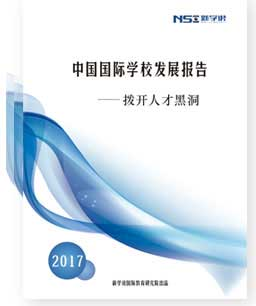
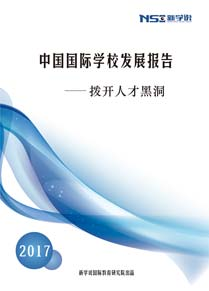
研究院页更换图片

diff --git a/src/components/research/researchIndex.vue b/src/components/research/researchIndex.vue
@@ -69,24 +69,29 @@
             <div class="row pt30">
                 <div class="col-md-3 col-xs-6 text-center reportlist">
                     <a href="javascript:;">
-                        <img src="../../assets/img/research/report02.jpg" alt="" width="220">
-                    </a>
-                </div>
-                <div class="col-md-3 col-xs-6 text-center reportlist reportItem">
-                    <a href="javascript:;">
-                        <img src="../../assets/img/research/report01.jpg" alt="" width="200">
+                        <img src="../../assets/img/research/report04.jpg" alt="" class="reportImg">
                     </a>
                 </div>
                 <div class="col-md-3 col-xs-6 text-center reportlist">
                     <a href="javascript:;">
-                        <img src="../../assets/img/research/report03.jpg" alt="" width="185">
+                        <img src="../../assets/img/research/report02.jpg" alt="" class="reportImg">
                     </a>
                 </div>
-                <div class="col-md-3 col-xs-6 reportlist">
+                <div class="col-md-3 col-xs-6 text-center reportlist reportItem">
+                    <a href="javascript:;">
+                        <img src="../../assets/img/research/report01.jpg" alt="" class="reportImg">
+                    </a>
+                </div>
+                <div class="col-md-3 col-xs-6 text-center reportlist">
+                    <a href="javascript:;">
+                        <img src="../../assets/img/research/report03.jpg" alt="" class="reportImg">
+                    </a>
+                </div>
+                <!-- <div class="col-md-3 col-xs-6 reportlist">
                     <h5 class="text-center class-title">关于研究院</h5>
                     <p class="class-info">新学说研究院是包括行业专家共同研究编撰国际学校内参，国际学校发展报告，行业研究报告，国际学校职能课程，国际学校研修班等</p>
                     <p class="text-center class-apply"><router-link tag="a" :to="{path:'/research/periodical'}">资源下载</router-link></p>
-                </div>
+                </div> -->
             </div>
             <!-- 研究成果 END-->
             <!-- 培训课程 -->
@@ -122,7 +127,7 @@
                 </div>
                 <div class="col-md-3 col-xs-6 reportlist">
                     <a href="http://class.xinxueshuo.cn/nsi-class/pages/mac.html" target="_blank">
-                        <img src="../../assets/img/research/subItem03.jpg" alt="">
+                        <img src="../../assets/img/research/subItem06.jpg" alt="">
                     </a>
                     <p class="subItem-title">公共关系</p>
                     <p class="subItem-desc">通过有效沟通策略实现招生转化；构建健康牢固的家校关系 </p>
@@ -233,6 +238,9 @@ export default {
                }
            }
        }
+       .reportImg{
+           box-shadow: 0 5px 20px rgb(190, 190, 190);
+       }
        .item01{
            background-image: url('../../assets/img/research/item01.png')
        }
@@ -290,9 +298,9 @@ export default {
         }
         .reportItem{
             img{
-                   @media (max-width: 768px) {
-                        display: inline-block;
-                        height: 240px;
+                @media (max-width: 768px) {
+                    display: inline-block;
+                    height: 240px;
                 }
             }
         }
